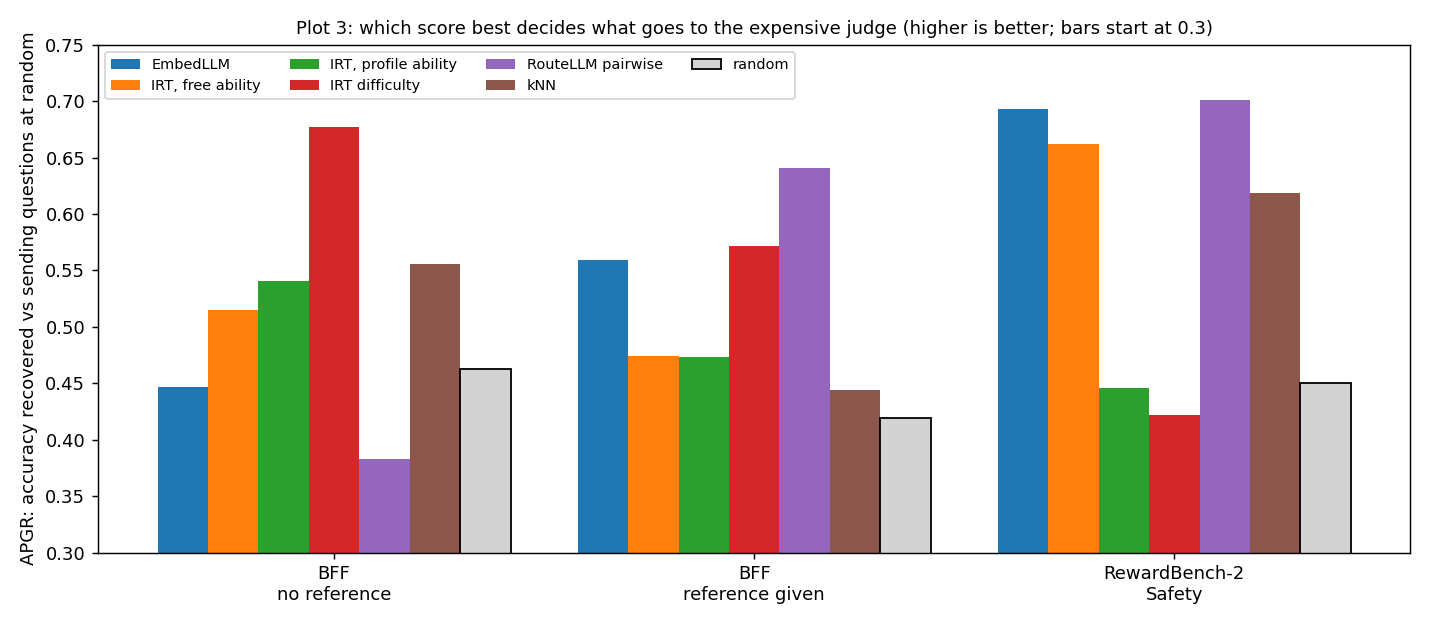
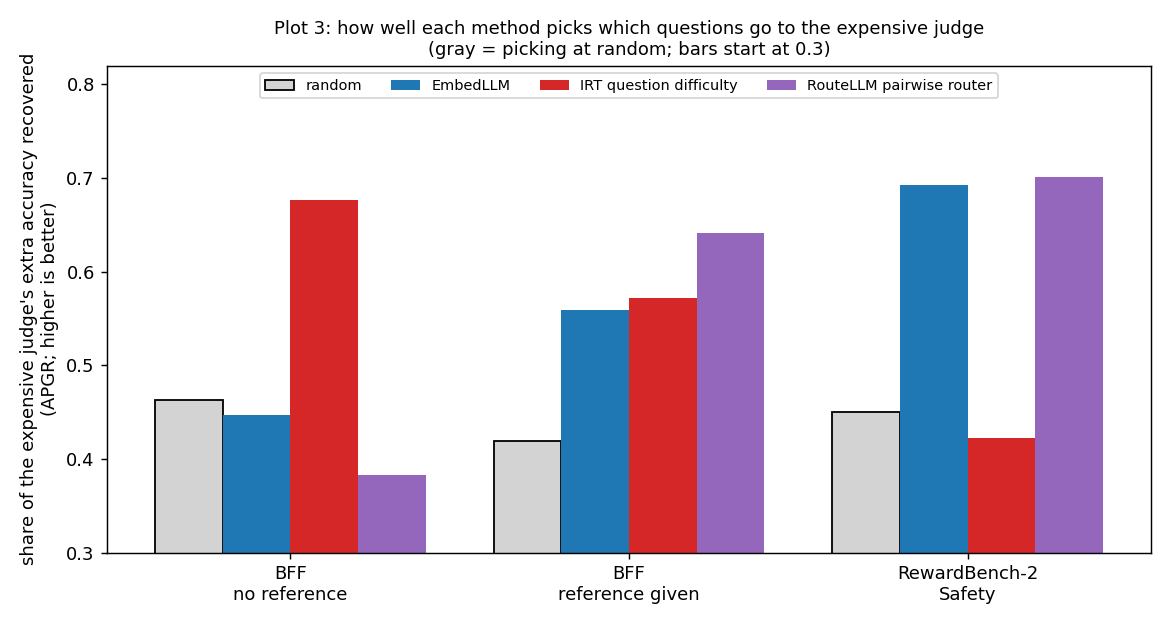
Simplify Plot 3 in the EmbedLLM README to four bars and add a table of all scores

diff --git a/experiments/embedllm/make_plots.py b/experiments/embedllm/make_plots.py
@@ -28,13 +28,14 @@ ax.set_xticks(range(3)); ax.set_xticklabels(settings); ax.set_ylim(0.75, 0.97); 
 ax.set_title("Plot 2: EmbedLLM routing vs baselines (bars start at 0.75)"); ax.legend(fontsize=8, loc="upper left", ncol=2)
 fig.tight_layout(); fig.savefig(os.path.join(out, "embedllm_routing.png"), dpi=130); plt.close(fig)
 
-# ---- Plot 3: extension, strong-vs-weak routing (APGR: higher is better, random is the baseline), 10 splits
-apgr = {"EmbedLLM": [.447, .559, .693], "IRT, free ability": [.515, .474, .662], "IRT, profile ability": [.541, .473, .446],
-        "IRT difficulty": [.677, .572, .422], "RouteLLM pairwise": [.383, .641, .701], "kNN": [.556, .444, .619], "random": [.463, .419, .450]}
-fig, ax = plt.subplots(figsize=(11, 4.8))
+# ---- Plot 3: extension, which questions to send to the expensive judge (APGR; higher is better; random is the baseline), 10 splits
+apgr = {"random": [.463, .419, .450], "EmbedLLM": [.447, .559, .693], "IRT question difficulty": [.677, .572, .422], "RouteLLM pairwise router": [.383, .641, .701]}
+colors = {"random": "lightgray", "EmbedLLM": "C0", "IRT question difficulty": "C3", "RouteLLM pairwise router": "C4"}
+fig, ax = plt.subplots(figsize=(9, 4.8))
 for j, (name, v) in enumerate(apgr.items()):
-    ax.bar([i + (j - 3) * 0.12 for i in range(3)], v, 0.12, label=name, color="lightgray" if name == "random" else None, edgecolor="k" if name == "random" else None)
-ax.set_xticks(range(3)); ax.set_xticklabels(settings); ax.set_ylim(0.3, 0.75); ax.set_ylabel("APGR: accuracy recovered vs sending questions at random")
-ax.set_title("Plot 3: which score best decides what goes to the expensive judge (higher is better; bars start at 0.3)", fontsize=10); ax.legend(fontsize=8, ncol=4, loc="upper left")
+    ax.bar([i + (j - 1.5) * 0.2 for i in range(3)], v, 0.2, label=name, color=colors[name], edgecolor="k" if name == "random" else None)
+ax.set_xticks(range(3)); ax.set_xticklabels(settings); ax.set_ylim(0.3, 0.82)
+ax.set_ylabel("share of the expensive judge's extra accuracy recovered\n(APGR; higher is better)")
+ax.set_title("Plot 3: how well each method picks which questions go to the expensive judge\n(gray = picking at random; bars start at 0.3)", fontsize=10); ax.legend(fontsize=8, loc="upper center", ncol=4)
 fig.tight_layout(); fig.savefig(os.path.join(out, "embedllm_ext_routing.png"), dpi=130); plt.close(fig)
 print("saved", sorted(os.listdir(out)))

diff --git a/experiments/embedllm/README.md b/experiments/embedllm/README.md
@@ -42,9 +42,19 @@ The goal: a cheap judge is less accurate and an expensive judge is more accurate
 - **IRT-Router (ACL 2025):** predict whether a judge is right from a **judge ability** and a **question difficulty** (`sigmoid(a . ability - difficulty)`), either with ability learned freely or computed from a short text profile of the judge. The routing score trades the predicted chance of being right against price.
 - **RouteLLM (ICLR 2025):** decide which questions go to the strong judge (the most accurate one) and which stay with the weak one (the cheapest, nemotron-nano). Quality is how much of the weak-to-strong accuracy gap is recovered compared with sending questions at random (APGR; random should be 0.5).
 
-**Plot 3: APGR for each way of deciding which questions go to the expensive judge (10 splits).**
+**Plot 3: how well each method picks which questions go to the expensive judge (10 splits).** Gray is picking at random; a bar taller than gray means that method gets back more of the expensive judge's extra accuracy than random, for the same number of expensive calls. All scores, including the ones not drawn:
 
-![Plot 3: strong-vs-weak routing](figures/embedllm_ext_routing.png)
+| APGR (random should be 0.5) | BFF no reference | BFF reference given | RewardBench-2 |
+|---|---|---|---|
+| random | 0.46 | 0.42 | 0.45 |
+| EmbedLLM | 0.45 | 0.56 | 0.69 |
+| IRT question difficulty | 0.68 | 0.57 | 0.42 |
+| RouteLLM pairwise router | 0.38 | 0.64 | 0.70 |
+| IRT, free ability | 0.52 | 0.47 | 0.66 |
+| IRT, profile ability | 0.54 | 0.47 | 0.45 |
+| kNN | 0.56 | 0.44 | 0.62 |
+
+![Plot 3: which questions go to the expensive judge](figures/embedllm_ext_routing.png)
 
 - Predicting whether a judge is right is no better than the constant baseline. The IRT version with the text profile has the best AUROC in all three settings, but only slightly (0.64, 0.66, 0.71).
 - Learned ability follows real judge accuracy (rank correlation +0.38, +0.46, +0.77); learned difficulty follows how often judges fail only weakly (+0.17, +0.12) on BFF and moderately (+0.39) on RewardBench-2.
